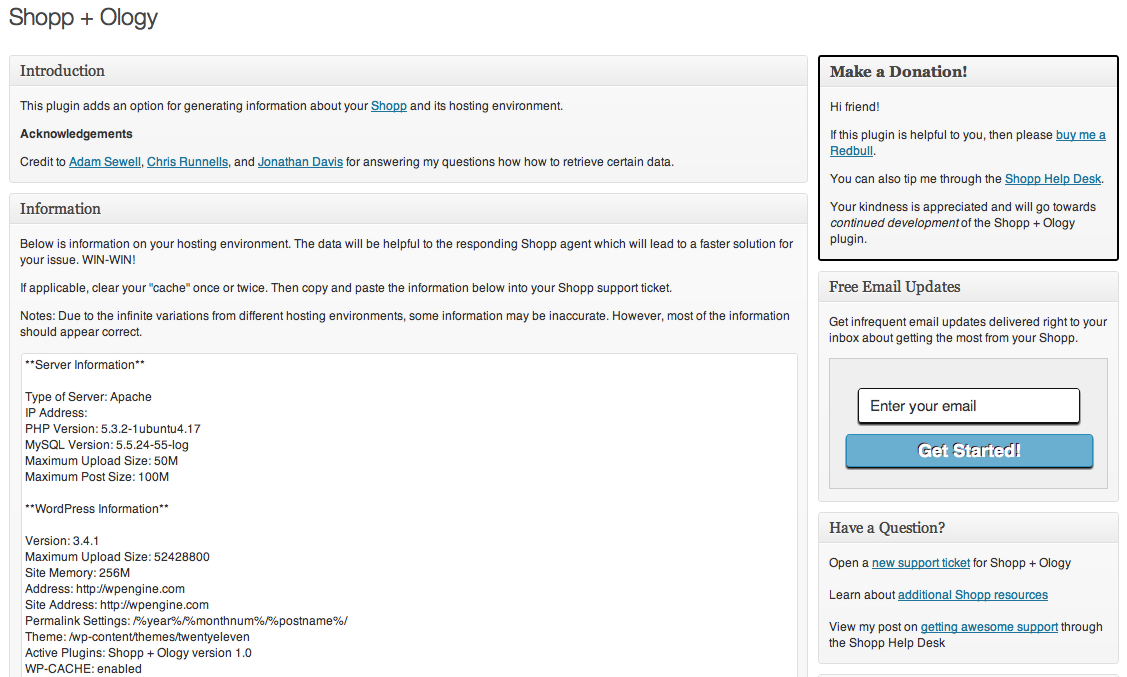
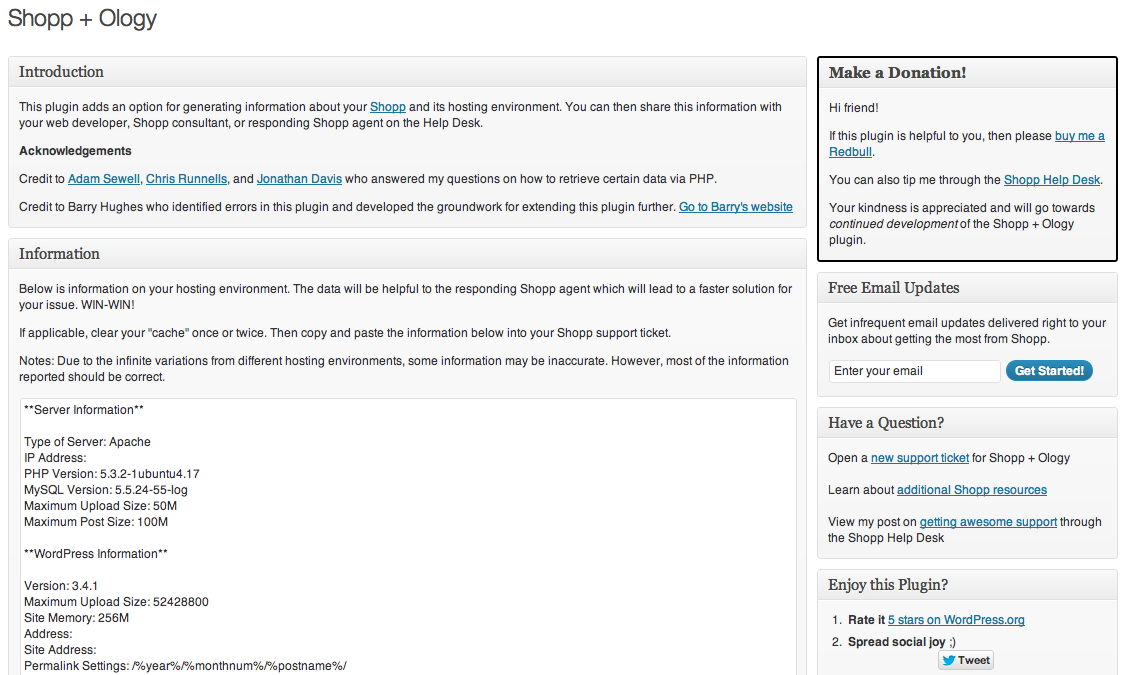
tagging version 1.0.1 of Shopp + Ology
git-svn-id: https://plugins.svn.wordpress.org/shopp-ology/trunk@573870 b8457f37-d9ea-0310-8a92-e5e31aec5664

Changed region(s): [[0.0, 0.0622, 0.9973, 0.9956], [0.0, 0.0, 0.1558, 0.0622]]

diff --git a/css/shopp-ology.css b/css/shopp-ology.css
@@ -14,46 +14,3 @@ div.inside ul, div.inside ol {
 .postbox .hndle {
     cursor: auto;
 }
-
-#optin {
-	background: #EFEFEF;
-	border: 1px solid #CCCCCC;
-	color: #000000;
-	padding: 20px 15px;
-	text-align: center;
-}
-
-#optin p { margin: 8px 0 0 }
-
-#optin input {
-	border-radius: 3px;
-	-moz-border-radius: 3px;
-	-webkit-border-radius: 3px;
-	box-shadow: 0 2px 2px #111;
-	-moz-box-shadow: 0 2px 2px #111;
-	-webkit-box-shadow: 0 2px 2px #111
-}
-
-#optin input[type="text"] {
-	border: 1px solid #111;
-	font-size: 15px;
-	margin-bottom: 10px;
-	padding: 8px 10px;
-	width: 90%
-}
-
-#optin input.email { background-color: #fff }
-#optin input.name { background-color: #fff }
-#optin input[type="submit"] {
-	background-color: #6AAFCF;
-	border: 1px solid #2A8CBA;
-	color: #fff;
-	cursor: pointer;
-	font-size: 18px;
-	font-weight: bold;
-	padding: 8px 0;
-	text-shadow: -1px -1px #3a060a;
-	width: 100%
-}
-
-#optin input[type="submit"]:hover { background-color: #f0a000; 	border-color: #c87800;}

diff --git a/shopp-ology.php b/shopp-ology.php
@@ -2,13 +2,14 @@
 /*
 Plugin Name: Shopp + Ology
 Description: Generate information about your hosting environment to assist with troubleshooting WordPress and Shopp.
-Version: 1.0
+Version: 1.0.1
 Plugin URI: http://optimizemyshopp.com
 Author: Lorenzo Orlando Caum, Enzo12 LLC
 Author URI: http://enzo12.com
 License: GPLv2
 */
-/* (CC BY 3.0) 2012  Lorenzo Orlando Caum  (email : hello@enzo12.com)
+/* 
+(CC BY 3.0) 2012  Lorenzo Orlando Caum  (email : hello@enzo12.com)
 
 	This plugin is free software: you can redistribute it and/or modify
 	it under the terms of the GNU General Public License as published by
@@ -24,26 +25,32 @@ License: GPLv2
 	along with this plugin.  If not, see <http://www.gnu.org/licenses/>. 
 */
 
+Shopp_Ology::smartLoad();
+
 class Shopp_Ology {
 	public static $yourname;
+	
+	public static function smartLoad() {
+		$instantiate = apply_filters('shoppOlogyLoadBasic', true);
+		if ($instantiate) { new Shopp_Ology; }
+	}
 
 	public function __construct() {
-		add_action('shopp_init', array(&$this, 'init'));
+		add_action('shopp_init', array($this, 'init'));
 		
 		$this->yourname = get_option("shopp_ology_yourname");
 	}
 
 	public function init() {
-		wp_enqueue_style( 'shopp-ology-stylesheet', plugins_url( "css/shopp-ology.css", __FILE__ ), array(), '20120628' );
+		wp_enqueue_style( 'shopp-ology-stylesheet', plugins_url( "css/shopp-ology.css", __FILE__ ), array(), '20121607' );
 		
-		// Actions and filters
-		add_action('admin_menu', array(&$this, 'admin_menu'));
+		add_action('admin_menu', array($this, 'admin_menu'));
 	}
 
 	public function admin_menu() {
 		global $Shopp;
 		$ShoppMenu = $Shopp->Flow->Admin->MainMenu;
-		$page = add_submenu_page($ShoppMenu,__('Shopp + Ology', 'page title'), __('+ Ology','menu title'), defined('SHOPP_USERLEVEL') ? SHOPP_USERLEVEL : 'manage_options', 'shopp-ology', array(&$this, 'render_display_settings'));
+		$page = add_submenu_page($ShoppMenu,__('Shopp + Ology', 'page title'), __('+ Ology','menu title'), defined('SHOPP_USERLEVEL') ? SHOPP_USERLEVEL : 'manage_options', 'shopp-ology', array($this, 'render_display_settings'));
 
 		add_action( 'admin_print_styles-' . $page, 'admin_styles' );
 	}
@@ -60,6 +67,7 @@ class Shopp_Ology {
 			update_option("shopp_ology_yourname", $this->yourname);
 		}
 ?>
+
 <div class="wrap">
 	<h2>Shopp + Ology</h2>
 	<div class="postbox-container" style="width:65%;">
@@ -69,8 +77,10 @@ class Shopp_Ology {
 				<h3 class="hndle"><span>Introduction</span></h3>
 				<div class="inside">
 					<p>This plugin adds an option for generating information about your <a href="http://optimizemyshopp.com/go/shopp/" title="Learn more about Shopp">Shopp</a> and its hosting environment. You can then share this information with your web developer, Shopp consultant, or responding Shopp agent on the Help Desk.</p> 
-					<p><strong>Acknowledgements</strong></p>
+					<strong>Acknowledgements</strong>
+					<br />
 					<p>Credit to <a href="http://optimizemyshopp.com/go/adamsewell/" title="Get in touch with Adam">Adam Sewell</a>, <a href="http://optimizemyshopp.com/go/chrisrunnells/" title="Get in touch with Chris">Chris Runnells</a>, and <a href="http://optimizemyshopp.com/go/jonathandavis/" title="Get in touch with Jonathan Davis">Jonathan Davis</a> who answered my questions on how to retrieve certain data via PHP.</p>
+					<p>Credit to Barry Hughes who identified errors in this plugin and developed the groundwork for extending this plugin further. <a href="http://optimizemyshopp.com/go/barryhughes/" title="Get in touch with Barry Hughes">Go to Barry's website</a></p>
 				</div>
 			</div>
 
@@ -249,20 +259,13 @@ Computer: <?php echo $_SERVER['HTTP_USER_AGENT']. "\n"; ?>
 				<div class="inside">
 					<table border="0" width="100%">
    					 	<tr>
-     						<td width="70%"><div><img style="padding: 5px 10px 0px 0px; float:left" src="http://cdn.optimizemyshopp.com/wp-content/uploads/2012/03/lorenzo-orlando-caum.jpg" border="0" alt="Founder of Enzo12 LLC" width="115" height="160"><p><a href="http://twitter.com/lorenzocaum" >@lorenzocaum</a> is an entrepreneur and a marketer. <br><br>Lorenzo is the founder of Enzo12 LLC, a <a href="http://enzo12.com" title="Enzo12 LLC">web engineering firm</a> <br />in Tampa, FL. He is a graduate from the College of Business at the <br />University of South Florida. <br><br>Lorenzo contributes to the <a href="http://optimizemyshopp.com/go/shopp/" title="Learn more about Shopp">Shopp</a> project as a customer support rep.<br><br>He also has a <a href="http://lorenzocaum.com" title="Read Lorenzo's blog">business, marketing, and technology blog</a>.</p></div></td>
-    					  <td width="30%"><div id="optin">
-						<Big>Get Free Email Updates about Shopp</Big>
-						<form action="http://optimizemyshopp.us2.list-manage1.com/subscribe/post?u=5991854e8288cad7823e23d2e&amp;id=0719c3f096" method="post" target="_blank">
-						<p>
-						<input type="text" name="EMAIL" class="email" value="Enter your email" onfocus="if(this.value==this.defaultValue)this.value='';" onblur="if(this.value=='')this.value=this.defaultValue;" />
-						<input name="submit" type="submit" value="Get Started Today!" /></p>
-						</form>
-						</div></td>
+     						<td width="70%"><div><img style="padding: 0px 15px 0px 0px; float:left" src="http://cdn.optimizemyshopp.com/wp-content/uploads/2011/09/lorenzo-orlando-caum-shopp-wordpress-150x150.jpg" border="0" alt="Founder of Enzo12 LLC" width="150" height="150"><p><a href="http://twitter.com/lorenzocaum" >@lorenzocaum</a> is an entrepreneur and a marketer. <br /><br />Lorenzo is the founder of Enzo12 LLC, a <a href="http://enzo12.com" title="Enzo12 LLC">web engineering firm</a> <br />in Tampa, FL. He is a graduate from the College of Business at the <br />University of South Florida. <br /><br />Lorenzo contributes to the <a href="http://optimizemyshopp.com/go/shopp/" title="Learn more about Shopp">Shopp</a> project as a customer support rep.<br /><br />He also has a <a href="http://lorenzocaum.com" title="Read Lorenzo's blog">business, marketing, and technology blog</a>.</p></div></td>
+    					  <td width="30%"></td>
    						</tr>
-					</table>		
+					</table>
 				</div>
 			</div>
-			
+
 		</div>
 	</div>
 	
@@ -272,7 +275,8 @@ Computer: <?php echo $_SERVER['HTTP_USER_AGENT']. "\n"; ?>
 			<div id="shopp-ology-donate" class="postbox">
 				<h3 class="hndle"><span><strong>Make a Donation!</strong></span></h3>
 				<div class="inside">
-					<p>Hi friend!</p><p>If this plugin is helpful to you, then please <a href="http://optimizemyshopp.com/go/donate-shopp-ology/">buy me a Redbull</a>.</p> 
+					<p>Hi friend!</p>
+					<p>If this plugin is helpful to you, then please <a href="http://optimizemyshopp.com/go/donate-shopp-ology/">buy me a Redbull</a>.</p> 
 					<p>You can also tip me through the <a href="http://optimizemyshopp.com/go/tip-shopp-help-desk/">Shopp Help Desk</a>.</p>
 					<p>Your kindness is appreciated and will go towards <em>continued development</em> of the Shopp + Ology plugin.</p>
 				</div>
@@ -281,12 +285,16 @@ Computer: <?php echo $_SERVER['HTTP_USER_AGENT']. "\n"; ?>
 			<div id="shopp-ology-subscribe" class="postbox">
 				<h3 class="hndle"><span>Free Email Updates</span></h3>
 				<div class="inside">
-					<p>Get infrequent email updates delivered right to your inbox about getting the most from your Shopp.</p>
-					<p><div id="optin">
-					<form action="http://optimizemyshopp.us2.list-manage1.com/subscribe/post?u=5991854e8288cad7823e23d2e&amp;id=0719c3f096" method="post" target="_blank">
+					<p>Get infrequent email updates delivered right to your inbox about getting the most from Shopp.</p>
+					<div id="optin">
 					<p>
+					<form action="http://optimizemyshopp.us2.list-manage1.com/subscribe/post?u=5991854e8288cad7823e23d2e&amp;id=0719c3f096" method="post" target="_blank">
+
 					<input type="text" name="EMAIL" class="email" value="Enter your email" onfocus="if(this.value==this.defaultValue)this.value='';" onblur="if(this.value=='')this.value=this.defaultValue;" />
-					<input name="submit" type="submit" value="Get Started!" /></p></form></div></p>				
+					<input name="submit" class="button-primary" type="submit" value="Get Started!" />
+					</form>
+					</p>
+					</div>
 				</div>
 			</div>
 					
@@ -300,7 +308,10 @@ Computer: <?php echo $_SERVER['HTTP_USER_AGENT']. "\n"; ?>
 			<div id="shopp-ology-enjoy-this-plugin" class="postbox">
 				<h3 class="hndle"><span>Enjoy this Plugin?</span></h3>
 				<div class="inside">
-					<p><ol><li><strong>Rate it </strong><a href="http://wordpress.org/extend/plugins/shopp-ology/">5 stars on WordPress.org</li></a><li><strong>Spread social joy</strong> ;)<br />&nbsp;&nbsp;&nbsp;&nbsp;&nbsp;&nbsp;&nbsp;&nbsp;&nbsp;&nbsp;&nbsp;&nbsp;&nbsp;&nbsp;&nbsp;&nbsp;&nbsp;&nbsp;&nbsp;&nbsp;&nbsp;&nbsp;&nbsp;&nbsp;&nbsp;&nbsp;&nbsp;&nbsp;&nbsp;&nbsp;<a href="https://twitter.com/share" class="twitter-share-button" data-url="http://optimizemyshopp.com/blog/" data-text="Shopp + Ology for my #WordPress #ecommerce store" data-count="none" data-via="enzo12llc" data-related="lorenzocaum:entrepreneur">Tweet</a><script type="text/javascript" src="//platform.twitter.com/widgets.js"></script><br /><br /><div id="fb-root"></div>
+					<p>
+					<ol>
+					<li><strong>Rate it </strong><a href="http://wordpress.org/extend/plugins/shopp-ology/">5 stars on WordPress.org</a></li>
+					<li><strong>Spread social joy</strong> ;)<br />&nbsp;&nbsp;&nbsp;&nbsp;&nbsp;&nbsp;&nbsp;&nbsp;&nbsp;&nbsp;&nbsp;&nbsp;&nbsp;&nbsp;&nbsp;&nbsp;&nbsp;&nbsp;&nbsp;&nbsp;&nbsp;&nbsp;&nbsp;&nbsp;&nbsp;&nbsp;&nbsp;&nbsp;&nbsp;&nbsp;<a href="https://twitter.com/share" class="twitter-share-button" data-url="http://optimizemyshopp.com/blog/" data-text="Shopp + Ology for my #WordPress #ecommerce store" data-count="none" data-via="enzo12llc" data-related="lorenzocaum:entrepreneur">Tweet</a><script type="text/javascript" src="//platform.twitter.com/widgets.js"></script><br /><br /><div id="fb-root"></div>
 					<script>(function(d, s, id) {
  					var js, fjs = d.getElementsByTagName(s)[0];
   					if (d.getElementById(id)) {return;}
@@ -319,7 +330,10 @@ Computer: <?php echo $_SERVER['HTTP_USER_AGENT']. "\n"; ?>
     				po.src = 'https://apis.google.com/js/plusone.js';
     				var s = document.getElementsByTagName('script')[0]; s.parentNode.insertBefore(po, s);
   					})();
-					</script></li><li><strong>Express your kindness</strong> with a <a href="http://optimizemyshopp.com/go/donate-shopp-ology/">donation</a></li></p>		 
+					</script></li><li><strong>Express your kindness</strong> with a <a href="http://optimizemyshopp.com/go/donate-shopp-ology/">donation</a>
+					</li>
+					</ol>
+					</p>		 
 				</div>
 			</div>
 
@@ -331,20 +345,15 @@ Computer: <?php echo $_SERVER['HTTP_USER_AGENT']. "\n"; ?>
 				<?php _e('Recent posts from the blog:'); ?>
 				<?php
 				include_once(ABSPATH . WPINC . '/feed.php');
-
 				$rss = fetch_feed('http://feeds.feedburner.com/optimizemyshopp');
 				if (!is_wp_error( $rss ) ) : 
-				
     			$maxitems = $rss->get_item_quantity(7); 
-
     			$rss_items = $rss->get_items(0, $maxitems); 
 				endif;
 				?>
-
 				<ul>
     			<?php if ($maxitems == 0) echo '<li>No items.</li>';
     			else
-
     			foreach ( $rss_items as $item ) : ?>
     			<li>
         		<a href='<?php echo esc_url( $item->get_permalink() ); ?>'
@@ -359,19 +368,15 @@ Computer: <?php echo $_SERVER['HTTP_USER_AGENT']. "\n"; ?>
 			<div id="shopp-ology-recommendations" class="postbox">
 				<h3 class="hndle"><span>Recommended</span></h3>
 				<div class="inside">
-					<p>Want a better WordPress e-commerce site? <br /><br />You should order a WordPress e-commerce site analysis today! <a href="http://optimizemyshopp.com/store/wordpress-ecommerce-site-analysis/" title="Learn more about our site review">Learn more</a></p>
-					<p>What do you think about video tutorials for Shopp? <a href="http://shoppcreators.com" title="Learn more about Shopp video tutorials">Learn more</a></p>	
+					<p>Want a better WordPress e-commerce site? <br /><br />You should order a WordPress e-commerce site analysis today! <a href="http://optimizemyshopp.com/store/wordpress-ecommerce-site-analysis/" title="Learn more about our site review">Get more information now</a></p>
+					<p>What do you think about video tutorials for Shopp? <a href="http://shoppcreators.com" title="Learn more about Shopp video tutorials">Request an invite</a></p>
 				</div>
 			</div>
 
 		</div>
-		<br><br><br>
+		<br /><br /><br />
 	</div>
 </div>
 <?php	
 	}
 }
-
-new Shopp_Ology();
-
-?>
